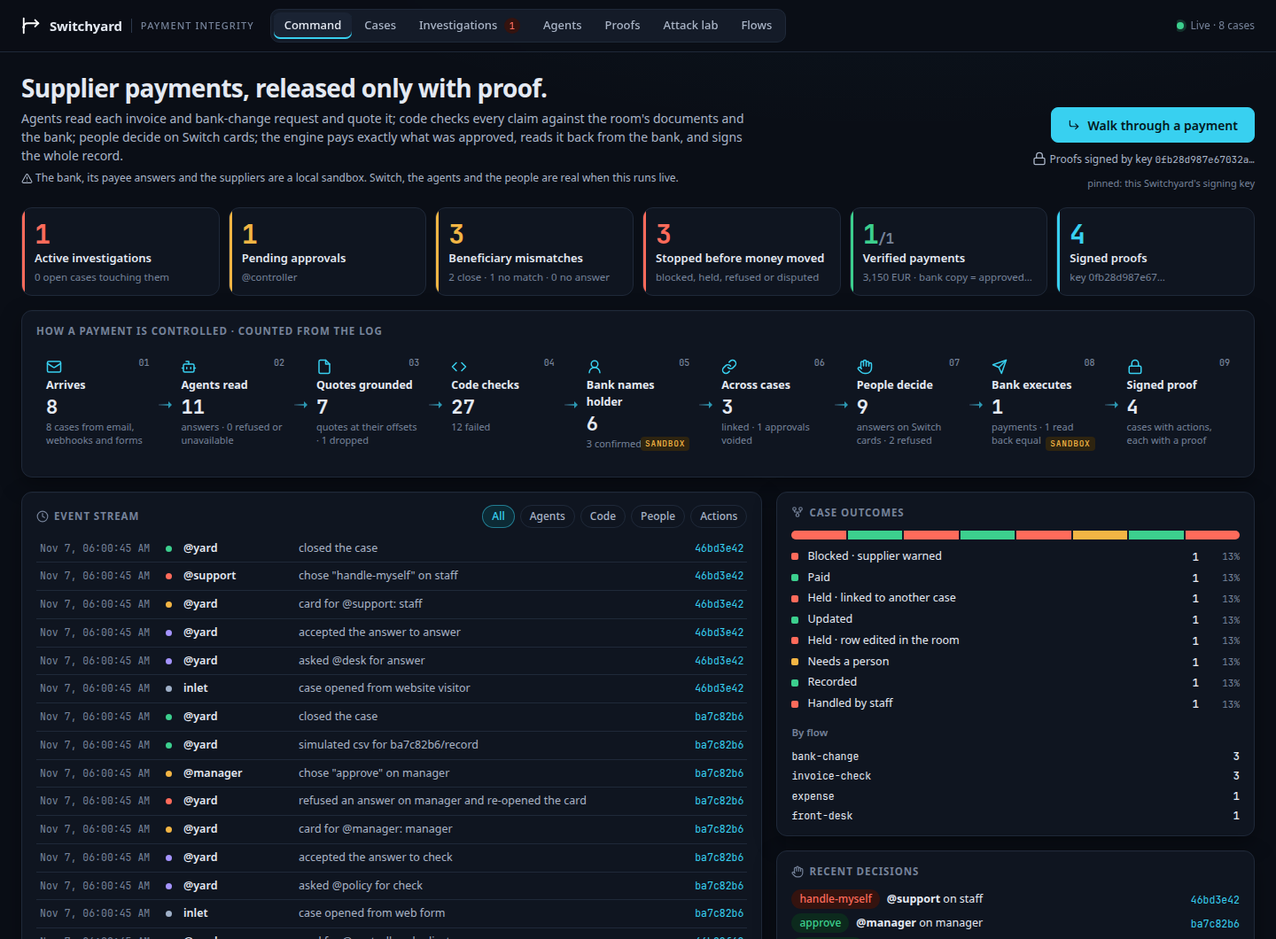
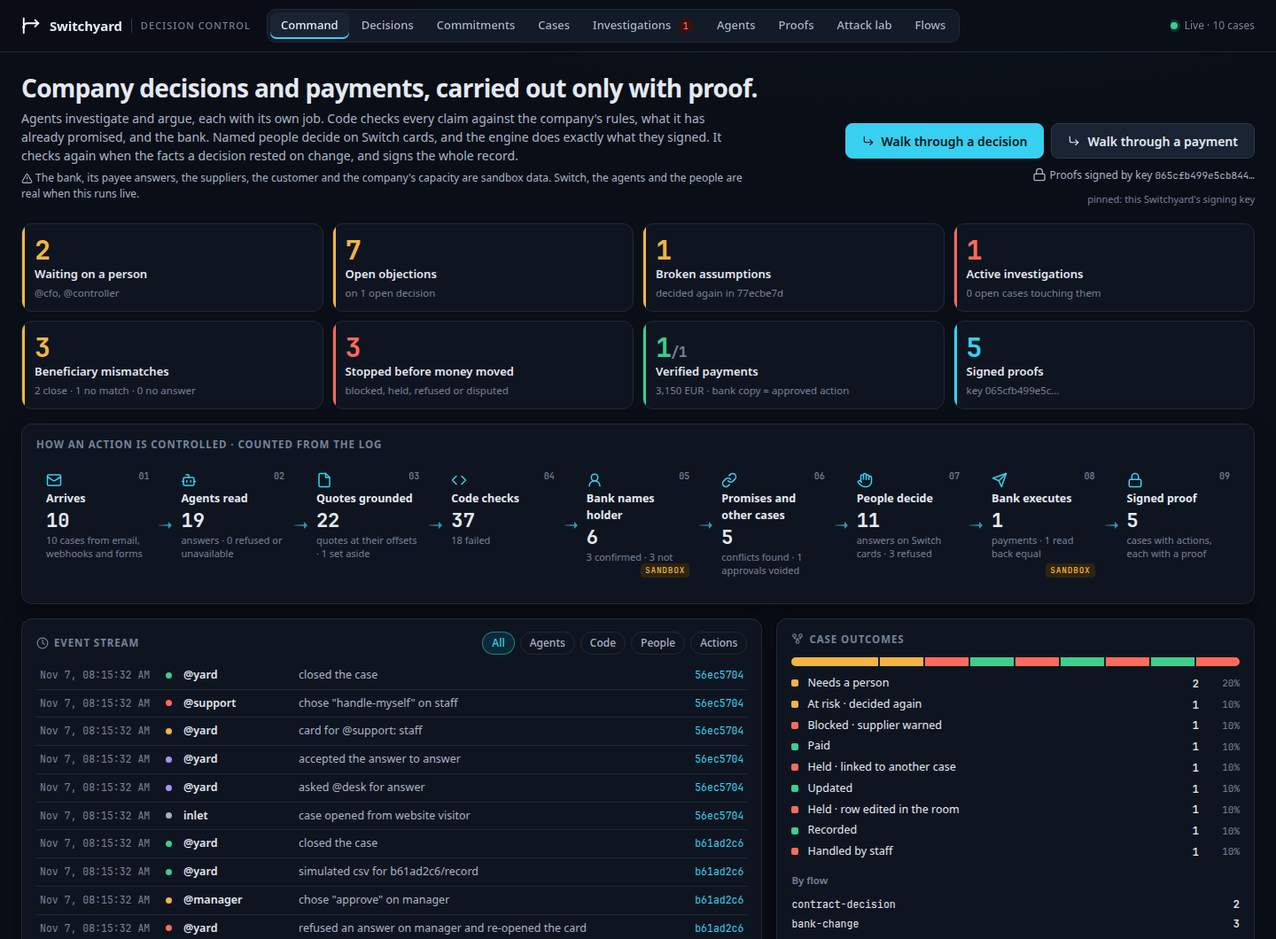
Reposition as a control plane for company decisions and the actions that carry them out

diff --git a/src/web/static/command.js b/src/web/static/command.js
@@ -21,6 +21,7 @@ export function commandFacts(state) {
   const payee = cases.map((c) => ({ c, v: checksOf(c).payee })).filter((x) => x.v);
   const payments = cases.flatMap(paymentsOf);
   const evidence = verified.filter((e) => e.check === "agent_evidence");
+  const dissent = verified.filter((e) => e.check === "dissent");
   return {
     cases,
     events,
@@ -35,7 +36,7 @@ export function commandFacts(state) {
     chain: [
       { k: "Arrives", icon: "mail", n: cases.length, sub: `${plural(cases.length, "case")} from email, webhooks and forms`, view: "#cases" },
       { k: "Agents read", icon: "bot", n: events.filter((e) => e.type === "partial" || (e.type === "answered" && !("agreed" in (e.value ?? {})))).length, sub: `answers · ${events.filter((e) => e.type === "reply_rejected" || e.value?.unavailable).length} refused or unavailable`, view: "#agents" },
-      { k: "Quotes grounded", icon: "doc", n: evidence.reduce((n, e) => n + (e.value?.quotes?.length ?? 0) + (e.value?.findings?.length ?? 0), 0), sub: `quotes at their offsets · ${evidence.reduce((n, e) => n + (e.value?.dropped?.length ?? 0), 0)} dropped`, view: "#agents" },
+      { k: "Quotes grounded", icon: "doc", n: evidence.reduce((n, e) => n + (e.value?.quotes?.length ?? 0) + (e.value?.findings?.length ?? 0), 0) + dissent.reduce((n, e) => n + (e.value?.ledger ?? []).filter((l) => l.grounded).length, 0), sub: `quotes at their offsets · ${evidence.reduce((n, e) => n + (e.value?.dropped?.length ?? 0), 0) + dissent.reduce((n, e) => n + (e.value?.ledger ?? []).filter((l) => l.quote && !l.grounded).length, 0)} set aside`, view: "#decisions" },
       { k: "Code checks", icon: "code", n: verified.length, sub: `${verified.filter((e) => e.value?.ok === false).length} failed`, view: "#agents" },
       { k: "Bank names holder", icon: "user", n: payee.length, sub: `${payee.filter((x) => x.v.result === "match" || x.v.result === "mandate").length} confirmed · ${payee.length - payee.filter((x) => x.v.result === "match" || x.v.result === "mandate").length} not`, view: "#investigations", sandbox: true },
       { k: "Promises and other cases", icon: "link", n: verified.filter((e) => (e.check === "links" || e.check === "commitments") && e.value?.ok === false).length, sub: `conflicts found · ${events.filter((e) => e.type === "rewound").length} approvals voided`, view: "#commitments" },
@@ -133,7 +134,7 @@ export function renderCommand(state, ui) {
   </section>
   <section class="cc-tiles" aria-label="Summary">${tiles.join("")}</section>
   <section class="card cc-chain-card" aria-label="How a payment is controlled">
-    <h3>How a payment is controlled · counted from the log</h3>
+    <h3>How an action is controlled · counted from the log</h3>
     <div class="cc-chain">${chain}</div>
   </section>
   <div class="cc-grid">

diff --git a/src/web/static/views.js b/src/web/static/views.js
@@ -100,6 +100,7 @@ export function describe(e) {
     case "flagged": return { tone: "stop", kind: "person", who: e.by, text: `${mask(e.iban)} recorded as ${e.how === "callback" ? "refused on the callback" : "blocked by a person"}` };
     case "cleared": return { tone: "act", kind: "person", who: e.by, text: `${mask(e.iban)} cleared after a callback and a second approver` };
     case "executed": return { tone: "act", kind: "action", who: "@yard", text: e.receipt };
+    case "assumption_broken": return { tone: "person", kind: "code", who: "code", text: `assumption broken: ${e.title}; case ${e.reopened} decides again` };
     case "in_doubt": return { tone: "stop", kind: "action", who: "@yard", text: `could not tell whether ${step} happened; a person decides` };
     case "failed": return { tone: "stop", kind: "action", who: "@yard", text: `stopped at ${step}: ${e.reason}` };
     case "cancelled": return { tone: "stop", kind: "action", who: e.by, text: "cancelled the case" };

diff --git a/src/web/api.ts b/src/web/api.ts
@@ -83,9 +83,9 @@ function titleOf(state: CaseState): string {
     return `Sales report · ${String(d.period ?? "").replace(/-/g, " ")}`;
   }
   const pick = (...keys: string[]) => keys.map((k) => d[k]).find((v) => typeof v === "string" || typeof v === "number");
-  const who = pick("name", "from_name", "from", "supplier", "client");
+  const who = pick("name", "from_name", "from", "supplier", "client", "customer");
   const what = pick("subject", "category", "number", "period", "role");
-  const amount = typeof d.amount === "number" ? ` · ${d.amount.toLocaleString("en")}` : "";
+  const amount = typeof d.amount === "number" ? ` · ${d.amount.toLocaleString("en")}` : typeof d.value === "number" ? ` · ${d.value.toLocaleString("en")} a year${d.reconsider ? " · decided again" : ""}` : "";
   const text = [who, what].filter(Boolean).map(String).join(" — ");
   const short = text.length > 70 ? `${text.slice(0, 69)}…` : text;
   return (short || state.flow) + amount;

diff --git a/src/web/static/console.css b/src/web/static/console.css
@@ -443,3 +443,4 @@ h3 .ico, h4 .ico { width: 14px; height: 14px; vertical-align: -2px; }
 .cc-ctas { display: flex; gap: 8px; flex-wrap: wrap; justify-content: flex-end; }
 .cc-tiles { grid-template-columns: repeat(4, minmax(0, 1fr)); }
 @media (max-width: 620px) { .cc-tiles { grid-template-columns: repeat(2, minmax(0, 1fr)); } .cc-ctas { justify-content: flex-start; } }
+a.btn { text-decoration: none; }

diff --git a/README.md b/README.md
@@ -1,8 +1,32 @@
 # Switchyard
 
-**Proof-carrying supplier payments, run by agents and people in [Switch](https://github.com/sandbox-quantum/switch) rooms.** A payment leaves only with evidence that it is the right one: agents investigate, code verifies, named people authorize, and the engine executes exactly what they approved.
+**A control plane for consequential company decisions and the actions that carry them out, run by agents and people in [Switch](https://github.com/sandbox-quantum/switch) rooms.** Agents investigate and argue, code checks every claim against the company's rules, what it has already promised and the bank, named people decide on Switch cards, and the engine carries out exactly what they signed. When the facts a decision rested on stop being true, it is decided again.
 
-> Nothing leaves the company unless a named person approved that exact action on a Switch card, or a rule written in the flow file allows it once the code checks pass. Nothing is paid on facts that changed after the checks ran, or on a vendor row someone edited in the room outside a case. Nothing is paid twice on one purchase order. And nothing goes to an account a person already refused without a person deciding again.
+> Nothing leaves the company unless a named person approved that exact action on a Switch card, or a rule written in the flow file allows it once the code checks pass. Nothing is carried out on facts that changed after the checks ran. And a decision that was carried out is checked again when what it rested on changes.
+
+Two applications run on the same engine:
+
+1. **Company decisions** (`flows/contract-decision.flow.yaml`). A sales proposal (a large contract at a deep discount, four-nines uptime, six weeks to deliver) is argued by four views, checked by code against the company's **policy** and its **commitments**, decided by two people, and written back as new commitments. When capacity it reserved is lost, **Assumption Watch** opens the decision again.
+2. **Supplier payments** (`flows/invoice-check.flow.yaml`, `flows/bank-change.flow.yaml`). A payment leaves only with evidence that it is the right one, and nothing goes to an account people already refused.
+
+Both leave a **signed proof** that anyone can check with no model, no Switch and no bank.
+
+### A company decision
+
+A company is a set of commitments made under uncertainty: capacity reserved for a customer, engineers promised to a release, an uptime guarantee, a budget. A decision made yesterday constrains the one being made today. Switchyard keeps those promises in a Switch room document and checks every new proposal against them before anyone is asked:
+
+- **Four views, not a vote.** Two agents on two vendors take four jobs: the finance desk, the engineering desk, the operations desk and a red team. Each gives a position and objections, and every objection must quote the proposal. Code keeps an objection only if its quote is there, records where, and never averages the views into a score. The finance desk also proposes a counteroffer.
+- **The company constitution, by code.** The `policy` document holds the rules and who set each one: maximum discount, minimum gross margin, maximum uptime promised, no new fixed costs this quarter (the board's), and the cost rates. Code computes the margin and the fixed cost itself; nothing an agent estimated is used.
+- **The Commitment Graph, by code.** The `commitments` document holds every promise: to whom, which resource, how much, until when, and who decided it. With the `capacity` document, code finds what is free in the proposal's window and names each promise in the way: "C-101 holds 600 for Northwind Paper until 2027-03-31 (decided by @cto)".
+- **Only an alternative that passes is offered.** A proposal that breaks a rule or a promise is never put on a card. The CFO is offered the counteroffer, which code checked the same way, or a decline. Choosing it with objections still open is recorded as answering for them.
+- **Four eyes, then commitments.** A different person, the CTO, co-signs the exact actions. Switchyard then writes the new commitments into the room (capacity, the delivery team, the uptime promise) and sends the counteroffer. The next proposal sees them.
+- **Assumption Watch.** A decision rests on facts that can change after it is carried out. Each tick, code checks a carried-out decision's assumptions again on the room as it is now. When operations reports lost capacity, the decision is marked, its thread says why, and a new case decides again on the current facts; the original and what it did stay as they were. Before it is carried out, the same change voids the approval instead.
+
+![The Decision Room: the proposal and the counteroffer as code checked them, the promises in the way and who made them, four views, and the dissent ledger with each quote marked in the proposal](docs/img/console-decision.png)
+
+![The Commitment Graph after capacity was lost: the decision's new commitments, the promises that stood in its way, and GPU-hours over-committed, 1,000 held of 700](docs/img/console-commitments.png)
+
+### A supplier payment
 
 Each payment carries this chain, and each link is evidence someone can check on the card and in the event log:
 
@@ -44,14 +68,17 @@ npm run demo:offline
 
 This is the real engine, with three stand-ins: canned agent replies, approval cards clicked by the script, and a sandbox bank started in the same process. You will see:
 
-1. **A "we changed banks" email from `fabrikarn.test`.** Code finds it is 2 characters away from `fabrikam.test` on file, the controller blocks it, and the real supplier is warned *at the address on file*.
-2. **A Fabrikam invoice that prints a different account.** The investigator quotes the invoice's "Please note our new bank details", and code confirms the quote is in it. Code also finds the account differs from the vendor master. The card shows the payment going to the account *on file*, and it waits for the controller.
-3. **The same account again, now from Fabrikam's real domain.** Every check on this email passes: right domain, valid IBAN, written in the email. But the account is the one the controller just blocked, so the controller decides before anyone calls, and the room is told which cases share the account.
-4. **Meanwhile, a genuine change from Fabrikam's own domain.** A callback card goes to the AP clerk, who confirms. The clerk then tries to approve the change too and is refused (four eyes). The controller approves, and Switchyard writes the new account into the vendor master.
-5. **The controller now clicks "pay" on the old invoice card.** Switchyard refuses to act, because the vendor master changed after the checks read it. It re-runs the checks on the new version and opens a new card. The old card, and any escalation or re-opened copy of it, no longer counts. Once approved, it marks PO-1043 as invoiced in the room, pays the new account through the bank and reads the payment back. All three hashes match: the approved one, the one sent and the bank's copy.
-6. **Someone edits the vendor master in the room directly**, swapping Northwind's account and leaving the old date and the word "callback". The next Northwind invoice would have been paid by the rule. Instead it is held: the row is not the one Switchyard first saw, and no pay card is offered.
-7. **A second Fabrikam invoice for the same order, under a new number.** PO-1043 now reads "invoiced FP-0912 (case …)", so the invoice is held, with no pay button.
-8. **The payment's proof.** The run writes the paid invoice's signed proof and checks it: 31 checks, from the signature to each quote's place in the invoice text. It prints the command to check it again yourself.
+1. **A company decision: Tailspin Analytics proposes 12,000,000 INR a year at a 25% discount, 99.99% uptime, in six weeks.** Four views argue it. Code finds it breaks four company rules (discount, a 28.5% margin, uptime, and the board's no-new-fixed-costs rule, because the GPU-hours are already promised) and runs into three promises already made (C-101, C-102, C-103), naming who made each. The finance desk's counteroffer passes every check, and it is the only thing offered on the CFO's card, with eight objections still open.
+2. **Two different people decide.** The CFO chooses the counteroffer; the CFO's attempt to co-sign is refused; the CTO co-signs. Switchyard writes three new commitments into the room and sends the counteroffer.
+3. **Assumption Watch.** Operations reports GPU capacity down from 1,000 to 700 a month. On the next tick, code finds the reserved capacity is no longer there; the decision is marked at risk and a new case decides again, where the finance desk offers a smaller tier and code passes it.
+4. **A "we changed banks" email from `fabrikarn.test`.** Code finds it is 2 characters away from `fabrikam.test` on file, the controller blocks it, and the real supplier is warned *at the address on file*.
+5. **A Fabrikam invoice that prints a different account.** The investigator quotes the invoice's "Please note our new bank details", and code confirms the quote is in it. Code also finds the account differs from the vendor master. The card shows the payment going to the account *on file*, and it waits for the controller.
+6. **The same account again, now from Fabrikam's real domain.** Every check on this email passes: right domain, valid IBAN, written in the email. But the account is the one the controller just blocked, so the controller decides before anyone calls, and the room is told which cases share the account.
+7. **Meanwhile, a genuine change from Fabrikam's own domain.** A callback card goes to the AP clerk, who confirms. The clerk then tries to approve the change too and is refused (four eyes). The controller approves, and Switchyard writes the new account into the vendor master.
+8. **The controller now clicks "pay" on the old invoice card.** Switchyard refuses to act, because the vendor master changed after the checks read it. It re-runs the checks on the new version and opens a new card. The old card, and any escalation or re-opened copy of it, no longer counts. Once approved, it marks PO-1043 as invoiced in the room, pays the new account through the bank and reads the payment back. All three hashes match: the approved one, the one sent and the bank's copy.
+9. **Someone edits the vendor master in the room directly**, swapping Northwind's account and leaving the old date and the word "callback". The next Northwind invoice would have been paid by the rule. Instead it is held: the row is not the one Switchyard first saw, and no pay card is offered.
+10. **A second Fabrikam invoice for the same order, under a new number.** PO-1043 now reads "invoiced FP-0912 (case …)", so the invoice is held, with no pay button.
+11. **The proofs.** The run writes the paid invoice's signed proof and checks it: 32 checks, from the signature to each quote's place in the invoice text. It prints the command to check it again yourself. The decision's proof, with its dissent ledger and the assumption that broke, holds all 34 of its checks.
 
 The same run also shows an expense refused when the wrong person clicks, and a prompt-injection attempt at a website chat held for a person. Add `-- --serve` to keep the console of the run's cases open at `http://localhost:4101`.
 
@@ -59,7 +86,9 @@ The same run also shows an expense refused when the wrong person clicks, and a p
 
 `npm run switchyard up` (or `demo:offline -- --serve`) serves a console on localhost. Every number and line in it is read from the event log, the flow files or a run made on the spot; nothing is stored for show.
 
-- **Command.** What is being protected right now: linked investigations, cards waiting on a person, accounts the bank did not confirm, payments stopped before money moved, payments whose bank copy hashes to the approved action, and signed proofs. Below that, the nine links of the payment chain, each with its count from the log, the event stream, case outcomes, recent decisions and the engine's health.
+- **Decisions.** The Decision Room: a decision's alternatives side by side as code checked them (discount, uptime, margin, fixed cost, free capacity, the promises in the way), the four views and their positions, the dissent ledger with each quote marked in the proposal, who chose and who co-signed, the commitments it wrote, and the state of each assumption it rests on.
+- **Commitments.** The Commitment Graph: every promise, the resource it holds and how full each resource is, the decisions that created a promise or ran into one, and any assumption that broke. Drawn from what code last read in the room and the rows decisions wrote.
+- **Command.** What is being protected right now: cards waiting on a person, open objections, broken assumptions, linked investigations, cards waiting on a person, accounts the bank did not confirm, payments stopped before money moved, payments whose bank copy hashes to the approved action, and signed proofs. Below that, the nine links of the payment chain, each with its count from the log, the event stream, case outcomes, recent decisions and the engine's health.
 - **Cases.** Each case's track, its receipts (approved = sent = read back), its story and its raw log.
 - **Investigations.** The cases one account connects, as a graph you can search, zoom, pan and click. A line is a recorded fact, and the kinds are kept apart: a person's block (suspicion), a failed callback, an account on file, what the bank said about the holder (confirmed, under a mandate, a similar name, no match, no answer). Selecting a node lists every fact about it; the timeline filters by kind and by case.
 - **Agents.** Every request to each agent, by its job: when it was asked, how long it took, its structured answer as recorded, retries and hand-offs to a backup. Then every code check with the document versions it read, the payment policy (what may release each action, a person or a rule), how each action was actually released, and what @yard did. Agents run with their tools switched off and no reasoning is recorded, so there are no tool calls or chains of thought to show.
@@ -73,7 +102,7 @@ The same run also shows an expense refused when the wrong person clicks, and a p
 
 ![The Attack lab: all 20 held-out scenarios under links off and on, and H05, the factoring company, held with links on](docs/img/console-lab.png)
 
-What it does not show, because the log does not hold it: how long a code check took (checks record their result, not a start time), purchase orders and emails as nodes of their own (each email or invoice is its case's node, and a PO is in its case's checks), and tool calls (there are none). The walkthrough replays a case that exists; it does not start one, since cases come in only through the inlets. The lab runs the held-out set; the nine built-in scenarios still run with `npm run lab`. Tests: "names the key it trusts, and passes the proof it handed out", "fails an edited copy, and says what is wrong", "runs one under the controls asked for, with its trace".
+What it does not show, because the log does not hold it: how long a code check took (checks record their result, not a start time), purchase orders and emails as nodes of their own (each email or invoice is its case's node, and a PO is in its case's checks), and tool calls (there are none). The Commitment Graph shows the room's documents as code last read them, not a live copy. The walkthrough replays a case that exists; it does not start one, since cases come in only through the inlets. The lab runs the held-out set; the nine built-in scenarios still run with `npm run lab`. Tests: "names the key it trusts, and passes the proof it handed out", "fails an edited copy, and says what is wrong", "runs one under the controls asked for, with its trace".
 
 ## What it looked like live, on Slack
 
@@ -89,7 +118,7 @@ And case `1c5cc185`, the look-alike bank-change email. The block card was answer
 
 | Switchyard needs | Switch provides | Without Switch |
 |---|---|---|
-| **A system of record that agents, code and people all read** | **Room documents** (`vendor-master`, `purchase-orders`). Checks read them, every agent request is grounded in them, and bank-change cases write them. | No shared, versioned rules. The checks would read a file nobody in the room can see. |
+| **A system of record that agents, code and people all read** | **Room documents**: `commitments`, `capacity` and `policy` for decisions; `vendor-master`, `purchase-orders` and `payment-mandates` for payments. Checks read them, every agent request is grounded in them, and cases write them (a decision its commitments, a bank change its vendor row). | No shared, versioned rules. The checks would read a file nobody in the room can see. |
 | **A decision with a name on it** | **Approval cards** in Slack (`/agent-sessions/{id}/approvals`), with **participant identity** on each answer (`answered_by`, matched to `list_participants`) | Nobody to hold to four eyes, and no record of who decided. |
 | **A place for each case** | A **room** per team (`#finance`) and a **thread** per case | Cases scattered across inboxes. |
 | **Work done by agents** | Agents in the room, asked with **targeted messages** and answering on the room's **event stream** (SSE, heartbeat, resumable) | No agents to ask. |
@@ -125,7 +154,7 @@ Each claim is a test in `test/` (named in quotes), or a case recorded live (see 
 - **Agents cannot act.** Every agent CLI is started with its tools, MCP servers and settings switched off, and Switchyard refuses to start one it cannot lock down. Test: "refuses a CLI it cannot lock down".
 - **Two vendors, so one outage doesn't stop the room.** The two invoice agents run on different vendors (Claude and Gemini), and one that cannot answer sends the invoice to a person rather than stopping it. The bank-change agent and most other agent steps have a backup agent on another vendor; the weekly report's review step has none. On case `94221172` the Claude checker hit its real usage limit mid-run, and the case still went to a person with the evidence it had.
 
-## Every payment's proof
+## Every decision's and payment's proof
 
 ```bash
 npm run switchyard proof <case id>                       # writes data/proofs/<case id>.proof.json
@@ -141,6 +170,7 @@ A finance director asks "why did we pay this?". The answer is one file:
   - who the bank says holds the account;
   - links to other cases;
   - the approvals that stopped counting;
+  - for a company decision, the dissent ledger, and any assumption that broke after it was carried out;
   - each decision, with the person, their role and what they approved;
   - each action as sent, the bank's receipt and its read-back.
 - **The flow** the case ran under.
@@ -347,9 +377,15 @@ In the room, `@yard help` lists the commands: `cases`, `status`, `docs`, `cancel
 - **Simulated, and labelled so:**
   - The bank. A local sandbox, `src/sandbox/bank.ts`; no real money moves. Its answers about who holds an account come from a registry file, not a bank's records.
   - The suppliers, their `.test` domains and IBANs. They are fictitious, with valid check digits.
+  - The company in the decision: Tailspin Analytics, its proposal, the commitments, the capacity and the policy are written for the demo. No CRM, HR or ERP is connected; the counteroffer email goes to Mailpit.
 - **One person.** The live run had one Slack user holding every role. There, four eyes shows as the refusal. The approval by a second person is shown in `demo:offline` and in the tests.
 
 ## Known limits
+
+- **Decisions: the counteroffer comes from an agent.** Code checks it, and nothing it does not pass is offered, but code does not search for the best alternative. If the finance desk proposes none that passes, the CFO is offered decline or hold.
+- **Decisions: a card carries options, not reasons.** Choosing the counteroffer with objections open is recorded as answering for them, by name and time; Switch cards have no free-text field for why.
+- **Decisions: promises have an end date and no start date.** The commitments check counts every promise not yet ended as holding its resource, which is cautious: a promise that starts later still counts now.
+- **Assumption Watch runs on the engine's tick** and re-checks only the assumptions a flow declares (here, the capacity a decision reserved). It opens a new case; it never undoes what the first decision did.
 
 - **Sender authentication needs a trusted mail gateway.** Switchyard does not verify SPF, DKIM or DMARC itself; it reads the results the company's own gateway wrote. The local setup has no gateway (Mailpit), so live cards say "sender not authenticated", and a forged `From` on the right domain passes the domain check there. That is why a passing change still needs a callback to the number on file and a second approver. The gateway must remove incoming `Authentication-Results` headers that carry its name, as RFC 8601 requires; otherwise a planted one could sit on top.
 - **Who holds an account comes from a sandbox registry.** The check digits catch typos only; the payee check is as good as the bank's answer, and here that answer comes from `fixtures/payees.yaml`, which we wrote. A mule account opened in exactly the supplier's name would match, as it can with real Verification of Payee. A close match (like the demo attacker's "Fabrikam Print Services s.r.o.") goes to a person, and a hurried person can still pay it. That is why the links between cases and the callback stay. Real Verification of Payee covers SEPA payments in the EU; elsewhere the bank may not answer, and then nothing is paid without a person.
@@ -390,7 +426,7 @@ Flows are YAML files (see [FLOWS.md](FLOWS.md)), checked by `npm run lint`:
 ## Tests
 
 ```bash
-npm test             # 293 tests
+npm test             # 306 tests
 npm run lab          # the attack lab, links off and on
 npm run lab -- --heldout   # the 20 held-out scenarios
 npm run typecheck
@@ -403,13 +439,13 @@ CI runs all four on pushes to main and on pull requests. The suite includes a fa
 ## Layout
 
 ```text
-src/engine/    flow schema and lint, expressions, contracts, gates, runner, event store, code checks, chat commands
+src/engine/    flow schema and lint, expressions, contracts, gates, runner, event store, code checks (payments in verifiers.ts, decisions in decisions.ts), chat commands
 src/switch/    the Switch agent-protocol client (SSE, heartbeat, ops, approvals, room documents)
 src/agents/    locked-down CLI agents, and the fixture agent for offline runs
 src/inlets/    form, webhook, email (Mailpit), schedule, front-desk screen
 src/outlets/   bank payment, room document, csv, email, webhook, room post, visitor reply; payload hashing
 src/sandbox/   the sandbox bank
-src/web/       the console (command, cases, investigations, agents, proofs, attack lab, walkthrough, flows) and the chat widget
+src/web/       the console (command, decisions, commitments, cases, investigations, agents, proofs, attack lab, walkthrough, flows) and the chat widget
 src/proof.ts   signed proofs of a case, and their verifier
 lab/           the held-out scenarios, the brief they were written from, and their first run
 flows/         the flows; templates/ has a Switch template for each

diff --git a/docs/DEMO.md b/docs/DEMO.md
@@ -1,19 +1,19 @@
-# Demo script (about 4 min)
+# Demo script (about 5 min; trim to taste)
 
-**Opening line:** "Every payment Switchyard makes carries its proof: what arrived, what the agents read and quoted, what code checked, who the bank says holds the account, who approved, and what the bank now holds. People decide in Switch; the engine does exactly what they approved."
+**Opening line:** "Agents shouldn't run a company. They should investigate, argue and plan inside a system that knows what the company has already promised, and lets named people decide. Switchyard is that system: the control plane for consequential decisions and the actions that carry them out. Payments were its first application; company decisions are the second."
 
 Screen: Slack (`#finance`) on the left, the console (`localhost:4100`) on the right, open on **Command**. Keep Mailpit (`localhost:8025`) and the sandbox bank (`localhost:4300`) in tabs, and a terminal for the `demo send` commands.
 
 Disclose on screen from the first frame:
 
-> Slack, Switch, the agents (Claude Haiku and Gemini) and the emails are real, and so are the two people. The bank, its answers about who holds an account, and the suppliers are a local sandbox.
+> Slack, Switch, the agents (Claude Haiku and Gemini) and the emails are real, and so are the two people. The bank, its answers about who holds an account, the suppliers, the customer and the company's commitments, capacity and policy are sandbox data.
 
 ## Before recording
 
 1. Switch Console's local server is running with Slack connected, and `#finance` was created with `setup-local invoice-check --bridge <slack bridge id>`. Re-running `setup-local` updates the two agents' descriptions to their new jobs; it is optional, since each step's request carries the job.
 2. **Two people, two Slack users, both in `#finance`.** In `switchyard.yaml` under `people:`:
-   - `@ap-clerk`: person A (makes the callbacks);
-   - `@controller` and `@cfo`: person B (blocks, holds, approves, pays).
+   - `@ap-clerk` and `@cto`: person A (makes the callbacks, co-signs decisions);
+   - `@controller` and `@cfo`: person B (chooses on decisions, blocks, holds, approves, pays).
 
    The handles are their Switch usernames. Check that each sees the other's answers on the cards.
 3. **A clean slate.** With Switchyard stopped, run:
@@ -22,7 +22,7 @@ Disclose on screen from the first frame:
    npm run switchyard demo reset
    ```
 
-   It moves the event log and the bank ledger aside and puts `vendor-master` and `purchase-orders` back to the template.
+   It moves the event log and the bank ledger aside and puts the room's documents (`vendor-master`, `purchase-orders`, `commitments`, `capacity`, `policy`) back to the template.
 4. Start the services:
 
    ```bash
@@ -31,19 +31,54 @@ Disclose on screen from the first frame:
    npm run switchyard up
    ```
 
-   After a reset, `#finance` gets one message per document listing the rows Switchyard attested, including the new, empty `payment-mandates` document. `npm run bank` now answers who holds each account from `fixtures/payees.yaml`; restart it so it picks that up.
-5. Warm up the agents: send one input and check that both answer. Gemini's free tier can return 429. If it does, the case still works: the invoice goes to a person with "the investigator could not answer".
+   The first `up` on this version creates the `commitments`, `capacity` and `policy` documents in `#finance`. After a reset, `#finance` gets one message per document listing the rows Switchyard attested. `npm run bank` now answers who holds each account from `fixtures/payees.yaml`; restart it so it picks that up.
+5. Warm up the agents: send one input and check that both answer. The decision asks each agent twice (four jobs), so expect about a minute before the CFO's card. Gemini's free tier can return 429. If it does, the case still works: the invoice goes to a person with "the investigator could not answer".
 6. Agent replies take 10–20 s. Cut the waits in the edit but keep the timestamps visible. Never call a cut "live".
 
 ---
 
-## 0:00 – The problem (15 s)
+## 0:00 – The thesis (15 s)
 
-On the console's **Command** view: the payment chain, nine links, each counted from the log.
+On the console's **Command** view: the chain, nine links, each counted from the log. Say the opening line.
 
-> "A supplier's mailbox gets taken over. The email comes from their real domain and passes every check. How would anyone know? Because someone already tried that account from a look-alike domain, and a person blocked it."
+## 0:15 – A contract proposal (60 s)
 
-## 0:15 – The real domain asks for a new account (35 s)
+```bash
+npm run switchyard demo send contract-proposal
+```
+
+- **Slack, case thread:** four jobs on two agents (finance desk, engineering desk, operations desk, red team), each with a position and objections that quote the proposal.
+- **Code, in the thread:** "✗ commitments: needs 500 GPU-hours a month … 400 of 1,000 are free: C-101 holds 600 for Northwind Paper until 2027-03-31 (decided by @cto) …" and "✗ constitution: max discount 15% (set by @cfo): 25% … min gross margin 30%: 28.5% (code: …) … new fixed costs this quarter 0 INR (set by board): 1,080,000 a year, to buy the GPU-hours that are already promised to others". Then the counteroffer, both ✓.
+- **The card for B (CFO):** "counter Tailspin Analytics's proposal? … breaks 4 company rules … promises already made stand in its way (C-101, C-102, C-103). The counteroffer passes both. 8 objections stay open; choosing counter makes you answerable for them." There is no accept button.
+
+> "A normal assistant would say yes to twelve million. Code knows that yesterday's promises to Northwind and Contoso are using the capacity, and that the board said no new fixed costs this quarter."
+
+**Console → Decisions:** the two alternatives side by side, the four views, and the dissent ledger with each quote marked in the proposal.
+
+## 1:15 – Two people decide (30 s)
+
+- **B** clicks **counter**. B tries to co-sign too: refused, four eyes.
+- **A (CTO)** clicks **approve** on the co-sign card. Switchyard writes three rows into `commitments` in the room and emails the counteroffer (Mailpit).
+- **Console → Commitments:** the new D-… rows, "created" by this decision, and the GPU bar filling.
+
+> "The decision is now a promise the next decision will see."
+
+## 1:45 – Assumption Watch (30 s)
+
+```bash
+npm run switchyard demo send capacity-drop
+```
+
+Operations reports GPU capacity down to 700. Within one tick (15 s by default):
+- **Slack, the decision's thread:** "✗ Assumption broken: the capacity the counteroffer reserved is still there. Checked again by code: … 100 of 700 are free … case … decides again on the facts as they are now."
+- A new case asks the four views again; the finance desk now offers a smaller tier, and code passes it. A new card waits for B.
+- **Console → Commitments:** the GPU bar is red, 1,000 held of 700. **Decisions:** the first decision "At risk · decided again", its Assumption Watch entry, and the link to the new case.
+
+> "It doesn't just make a recommendation. It keeps the company's decisions true over time."
+
+Afterwards: `demo send capacity-restore`.
+
+## 2:15 – Payments: the real domain asks for a new account (25 s)
 
 ```bash
 npm run switchyard demo send bank-change-mailbox
@@ -54,7 +89,7 @@ npm run switchyard demo send bank-change-mailbox
 
 > "Alone, this request almost passes. The bank says the account is held under a name close to Fabrikam's, not Fabrikam's. That is worth a call, but a busy clerk could still be talked into it."
 
-## 0:50 – A look-alike asks for the same account (55 s)
+## 2:40 – A look-alike asks for the same account (40 s)
 
 ```bash
 npm run switchyard demo send bank-change
@@ -70,7 +105,7 @@ npm run switchyard demo send bank-change
 
 > "One person's decision in one case changed what another person is allowed to do in another, before anyone picked up the phone."
 
-## 1:45 – The invoice that prints that account (40 s)
+## 3:20 – The invoice that prints that account (30 s)
 
 ```bash
 npm run switchyard demo send fabrikam-invoice
@@ -82,7 +117,7 @@ npm run switchyard demo send fabrikam-invoice
 
 > "The models read and flag. They quote the invoice, and code checks the quotes. The money goes where the vendor master says."
 
-## 2:25 – Investigations (30 s)
+## 3:50 – Investigations (20 s)
 
 **Console → Investigations.**
 - The group: "DE88…6303: blocked by a person, named again in 2 other cases".
@@ -91,7 +126,7 @@ npm run switchyard demo send fabrikam-invoice
 
 > "Every line here is a fact someone can check, from the event log. Nothing is scored."
 
-## 2:55 – Four eyes, with two real people (30 s)
+## Optional – Four eyes on a bank change (30 s)
 
 ```bash
 npm run switchyard demo send bank-change-real
@@ -101,15 +136,15 @@ npm run switchyard demo send bank-change-real
 - **A** tries to approve the change too: "@A answered "callback", so a different person must decide "approve"". The card re-opens.
 - **B** clicks **approve**. Switchyard writes the new account into `vendor-master` in the room; the thread shows the row.
 
-## 3:25 – Attack lab, labelled "offline: the same engine with scripted clicks" (15 s)
+## 4:10 – Attack lab, labelled "offline: the same engine with scripted clicks" (15 s)
 
 **Console → Attack lab → Run all 20.** A is links off, B links on; each run takes a fraction of a second.
 
 - **The held-out set:** 20 scenarios from a separate author who never saw the code. The first run found two real bugs, both now fixed. Say the honest part, which the bars show: on those 20, people doing their job stop every attack with or without links, and links on cost one false positive (click **H05**, the factoring company). Set B's callbacks to "every one fooled" and run again to show what gets through when people are fooled. What links add is the compromised mailbox after a refusal, the story just shown.
 
-## 3:35 – The proof (15 s)
+## 4:25 – The proofs (20 s)
 
-**Console → Proofs**, the paid invoice: "All 31 checks hold", from the signature to each quote's place in the invoice text (marked in the text), and the payment rule evaluated again on the log with the values it read. Click **Check a copy with the amount changed**: three checks fail.
+**Console → Proofs**, the decision: its dissent ledger, both people, the commitments it wrote and the assumption that broke, signed; every check holds. Then the paid invoice: every check holds, from the signature to each quote's place in the invoice text, and the payment rule evaluated again on the log with the values it read. Click **Check a copy with the amount changed**: three checks fail.
 
 To show it with no console at all, **Download proof**, then:
 
@@ -117,15 +152,15 @@ To show it with no console at all, **Download proof**, then:
 npm run switchyard verify-proof ~/Downloads/<case>.proof.json -- --fingerprint <printed by up or proof>
 ```
 
-## 3:50 – Close (10 s)
+## 4:45 – Close (10 s)
 
-> "The vendor master and the purchase orders are Switch room documents. The decisions are Switch cards, with a name on each answer, made by two people in the room. And every payment leaves with a proof anyone can check."
+> "The company's promises, its rules and its vendor master are Switch room documents. Every decision is a Switch card with a name on it, made by two people in the room. Agents argue; code checks; people decide; and every action leaves with a proof anyone can check."
 
 ---
 
 ## Also live, if time allows
 
-- **The walkthrough.** Command → **Walk through a payment**, then **Play**: the paid invoice's ten stages from its recorded events, ending with the proof built and checked on the spot.
+- **The walkthrough.** Command → **Walk through a decision** (or a payment), then **Play**: the paid invoice's ten stages from its recorded events, ending with the proof built and checked on the spot.
 
 - **The insider.** `demo send insider-edit`, then `demo send northwind-invoice`: "hold Northwind Paper invoice NW-118: their row in the vendor master was edited in the room, outside any case". There is no pay button. Afterwards: `demo send insider-restore`.
 - **The same PO again.** `demo send fabrikam-invoice-2`: "hold Fabrikam Print invoice FP-0913: PO-1043 is already invoiced FP-0912 …, and each PO is paid once". There is no pay button.

diff --git a/FLOWS.md b/FLOWS.md
@@ -104,6 +104,22 @@ With `roles`, the agents still work at once but each has its own job. A role's `
   auto_approve: case.amount <= 500 and check.verdict == "ok"   # optional
 ```
 
+**Assumptions.** What a decision rests on after it is carried out. On each tick, a closed case that carried out an action has each `recheck` step (a verify step) run again on the room's documents as they are now. When `holds` is false (default: the step's `ok`), the case is marked, its thread says why, and a new case of the same flow decides again with `case.reconsider` set to the first case's id. Nothing the first case did is undone.
+
+```yaml
+assumptions:
+  - id: capacity
+    title: the capacity the counteroffer reserved is still there
+    recheck: counter_fit
+```
+
+**Checks for company decisions** (`src/engine/decisions.ts`):
+- `commitments` reads the `commitments` document (one row per promise: id, kind, to, resource, amount, until, decided by, basis) and the `capacity` document, and passes when the resources asked for are free for the whole window after the promises already made. It names every promise in the way and who made it, and watches `capacity`, so an approval stops counting when capacity changes.
+- `constitution` reads the `policy` document (rule, limit, set by) and computes the margin and any new fixed cost itself from the policy's own rates.
+- `dissent` keeps every objection from each role (`by_<role>` arguments), with its quote and where it is in the proposal; an objection whose quote is not there is set aside. What code found binding against the proposal is listed too, and no card answer overrides it.
+
+An agent's `expect` can also ask for an `object` (or `object?`), such as a counteroffer.
+
 ## Names you can use
 
 - `case.<field>` is the case data from the inlet.
